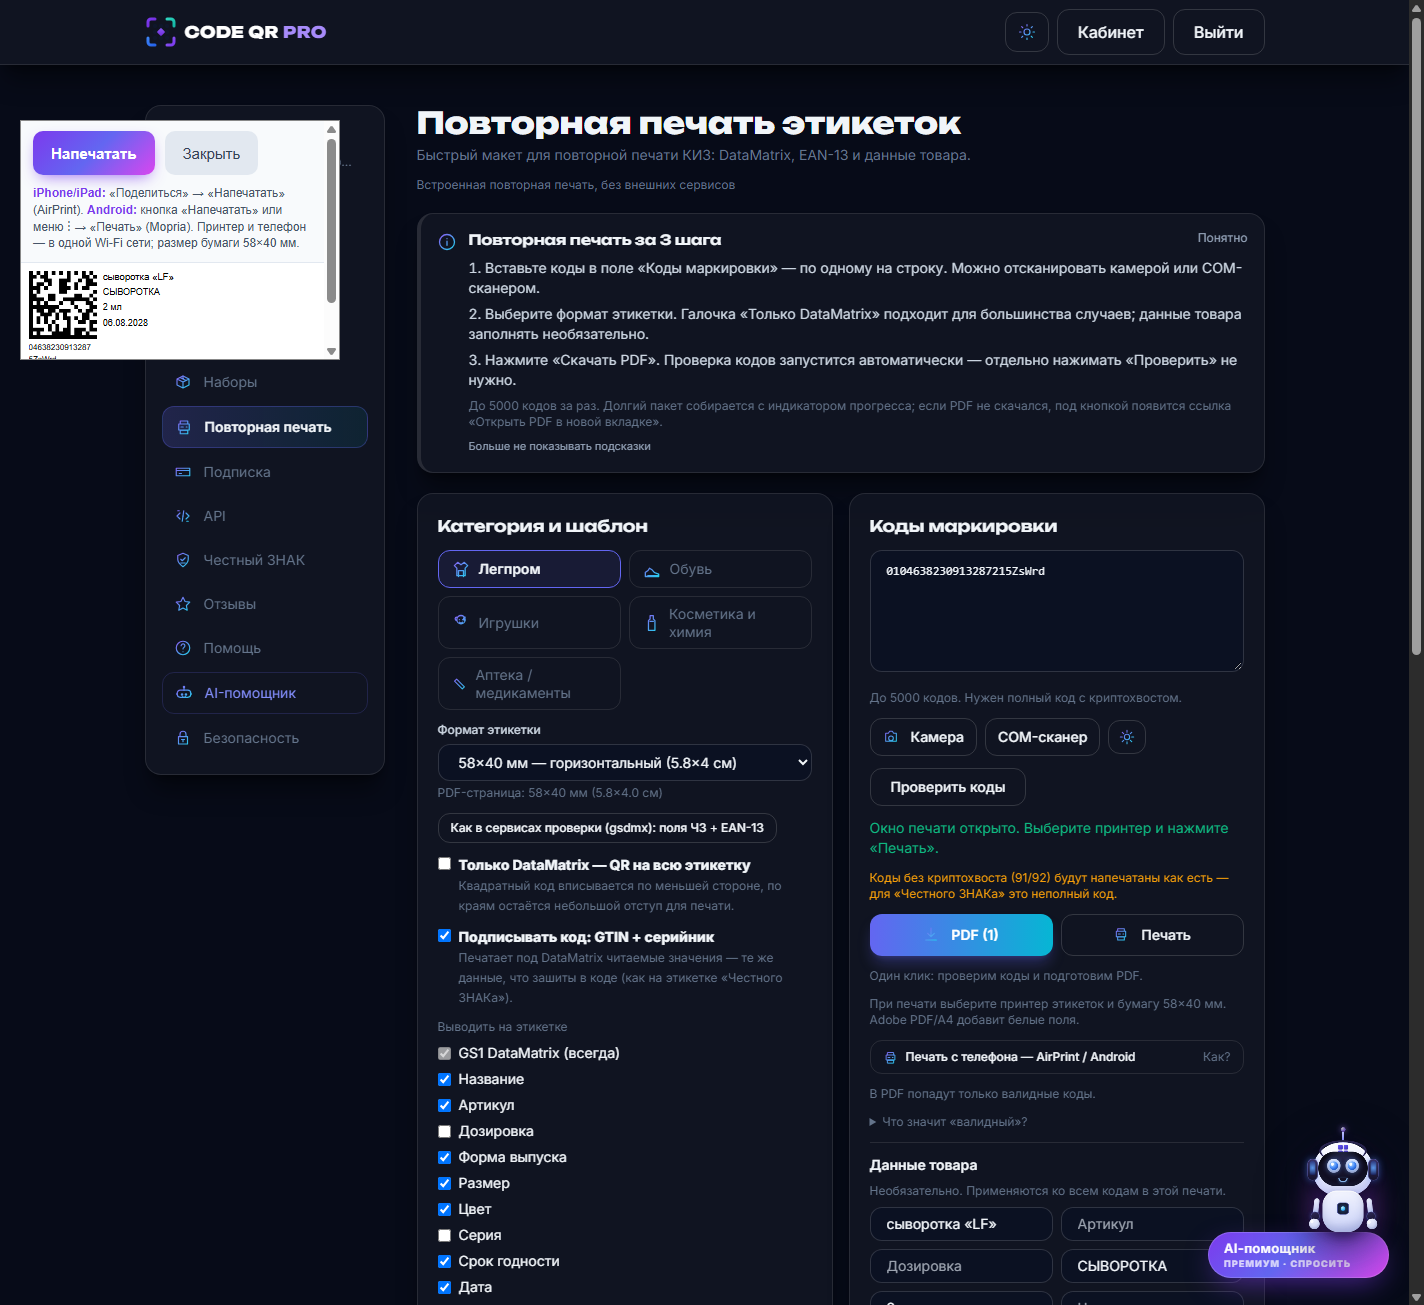
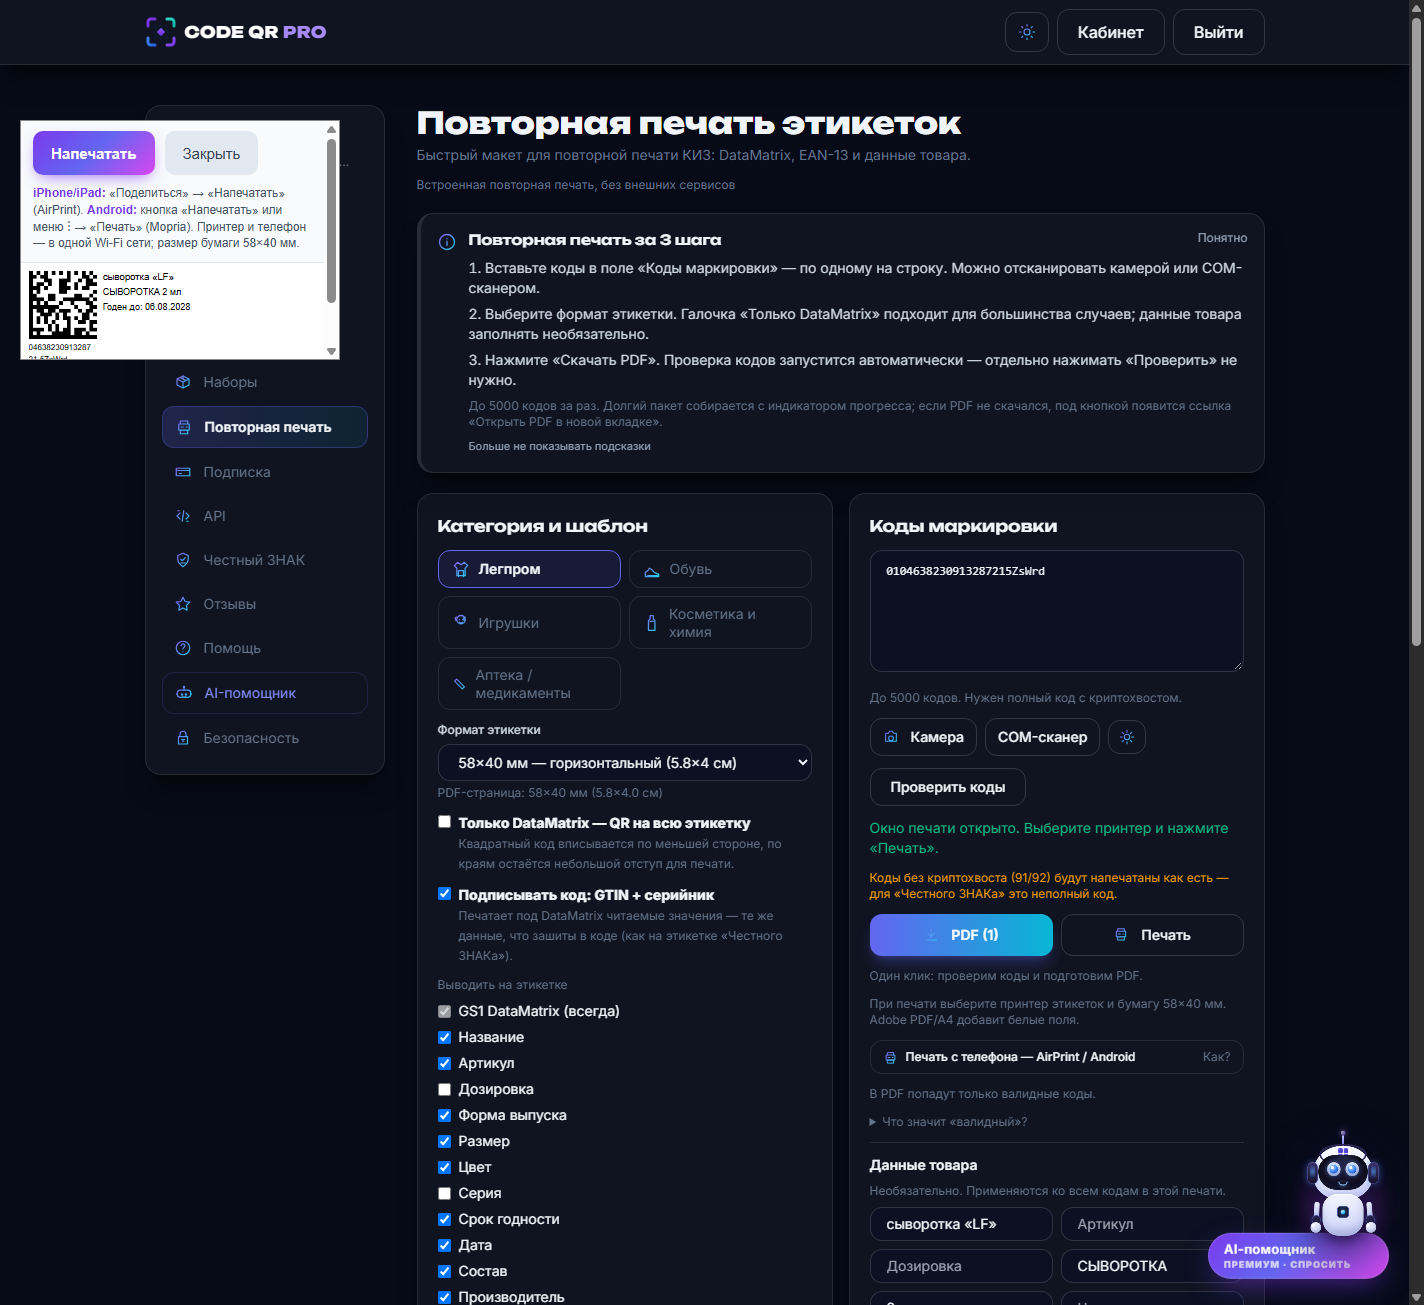
Reprint: gsdmx-like label by default, results view modes instead of preset
- Removed the «Как в сервисах проверки (gsdmx)» preset button/function
- Results block renamed «Результаты проверки» and got view modes like gsdmx:
  «Основная» (8 columns) / «Все поля» (12) / «Компактная» (4)
- Full label layout is now the default (DataMatrix + fields, no extra toggles):
  DataMatrix left, right column «название / ВИД + объём / Годен до: дата»,
  under the code «GTIN» and «21 серийник», EAN-13 at the bottom
- Product volume is taken with its unit (2 мл) from the ЧЗ catalog (attr_value_type)
- Serial caption now printed with AI prefix «21 » like on ЧЗ labels
- Verified: print template elements [datamatrix, name, kindQty, expiryLine, gtin,
  serialAi, ean13], view modes 8/12/4 columns, auto-filled fields, 0 JS errors

diff --git a/web/src/pages/Reprint.vue b/web/src/pages/Reprint.vue
@@ -61,7 +61,7 @@ const pdfPercent = computed(() => {
 const result = ref(null);
 const pdfUrl = ref('');
 const shortWarning = ref('');
-const qrOnly = ref(true);
+const qrOnly = ref(false);
 const qrMargin = ref(0.5);
 const printCode = ref(true);
 const barcodeFormat = ref('ean13');
@@ -474,6 +474,18 @@ const firstCode = computed(() => {
     batch
   };
 });
+const viewMode = ref('main');
+const VIEW_MODES = [
+  { id: 'main', label: 'Основная' },
+  { id: 'all', label: 'Все поля' },
+  { id: 'compact', label: 'Компактная' }
+];
+const colVisible = (key) => {
+  if (viewMode.value === 'all') return true;
+  if (viewMode.value === 'compact') return ['n', 'code', 'name', 'status'].includes(key);
+  return ['n', 'code', 'status', 'name', 'productKind', 'quantity', 'expirationDate', 'gtin'].includes(key);
+};
+
 const checkRows = computed(() => {
   const valid = result.value?.valid || [];
   return valid.map((c, i) => {
@@ -800,7 +812,7 @@ function buildTemplate() {
   const caption = (elements, x, y, width, fontSize = 6.5) => {
     const lineH = 2.9;
     elements.push({ id: 'capGtin', type: 'field', field: 'gtin', x, y, w: width, h: lineH, fontSize, align: 'left' });
-    elements.push({ id: 'capSerial', type: 'field', field: 'serial', x, y: y + lineH + 0.3, w: width, h: lineH, fontSize, align: 'left' });
+    elements.push({ id: 'capSerial', type: 'field', field: 'serialAi', x, y: y + lineH + 0.3, w: width, h: lineH, fontSize, align: 'left' });
     return y + lineH * 2 + 0.9;
   };
   if (qrOnly.value) {
@@ -838,23 +850,28 @@ function buildTemplate() {
   elements.push({ id: 'dm', type: 'datamatrix', x: m, y: m, w: dm, h: dm, fontSize: 8, align: 'left' });
   const lineH = Math.max(2.8, Math.min(4.2, H * 0.09));
 
-  // Правый столбец — как на карточке проверки: название, вид товара, объём, годен до.
+  // Правый столбец — как на карточке проверки: название, «вид + объём», «Годен до: дата».
   const rightX = m + dm + Math.max(1.2, m * 0.8);
   const rightW = Math.max(0, W - rightX - m);
   let rightY = m;
-  for (const key of ['name', 'form', 'size', 'expiry']) {
-    if (!fields[key]) continue;
-    const value = String(product[key] || '').trim();
-    if (!value) continue;
+  const kindQty = [String(product.form || '').trim(), String(product.size || '').trim()].filter(Boolean).join(' ');
+  const expiryLine = String(product.expiry || '').trim() ? `Годен до: ${String(product.expiry).trim()}` : '';
+  const rightFields = [
+    { key: 'name', value: String(product.name || '').trim(), enabled: fields.name, fontSize: 7.2 },
+    { key: 'kindQty', value: kindQty, enabled: fields.form || fields.size, fontSize: 6.8 },
+    { key: 'expiryLine', value: expiryLine, enabled: fields.expiry, fontSize: 6.8 }
+  ];
+  for (const item of rightFields) {
+    if (!item.enabled || !item.value) continue;
     if (rightW < 8 || rightY + lineH > H - m) break;
     elements.push({
-      id: `right_${key}`, type: 'field', field: key, x: rightX, y: rightY, w: rightW, h: lineH,
-      fontSize: key === 'name' ? 7.2 : 6.8, align: 'left'
+      id: `right_${item.key}`, type: 'field', field: item.key, x: rightX, y: rightY, w: rightW, h: lineH,
+      fontSize: item.fontSize, align: 'left'
     });
     rightY += lineH + 0.6;
   }
 
-  // Подпись под DataMatrix: GTIN и серийник.
+  // Подпись под DataMatrix: GTIN и «21 серийник» (как на этикетке ЧЗ).
   let belowY = m + dm + 1;
   if (printCode.value) {
     belowY = caption(elements, m, belowY, Math.max(dm, W * 0.5), 6);
@@ -887,14 +904,6 @@ function buildTemplate() {
   return { name: `Повторная печать · ${f.label}`, widthMm: W, heightMm: H, dpi: 203, elements };
 }
 
-function applyGsdmxPreset() {
-  qrOnly.value = false;
-  printCode.value = true;
-  for (const key of ['name', 'form', 'size', 'expiry', 'date', 'manufacturer', 'composition']) fields[key] = true;
-  fields.ean13 = true;
-  notice.value = 'Шаблон как в сервисах проверки: название, вид, объём, даты, состав, производитель и EAN-13';
-}
-
 async function downloadPdf() {
   error.value = '';
   notice.value = '';
@@ -922,10 +931,15 @@ async function downloadPdf() {
     }
     const template = buildTemplate();
     if (!template.elements.length) { error.value = 'Нечего печатать'; return; }
+    const kindQtyValue = [String(product.form || '').trim(), String(product.size || '').trim()].filter(Boolean).join(' ');
+    const expiryLineValue = String(product.expiry || '').trim() ? `Годен до: ${String(product.expiry).trim()}` : '';
     const rows = result.value.valid.map((c) => ({
       code: c.code,
       gtin: c.gtin,
       serial: c.serial,
+      serialAi: c.serial ? `21 ${c.serial}` : '',
+      kindQty: kindQtyValue,
+      expiryLine: expiryLineValue,
       barcode: String(product.barcode || '').trim(),
       name: String(product.name || '').trim(),
       article: String(product.article || '').trim(),
@@ -1075,8 +1089,13 @@ async function printLabels() {
     }
     const template = buildTemplate();
     if (!template.elements.length) throw new Error('Нечего печатать');
+    const kindQtyValue = [String(product.form || '').trim(), String(product.size || '').trim()].filter(Boolean).join(' ');
+    const expiryLineValue = String(product.expiry || '').trim() ? `Годен до: ${String(product.expiry).trim()}` : '';
     const rows = result.value.valid.map((c) => ({
       code: c.code, gtin: c.gtin, serial: c.serial,
+      serialAi: c.serial ? `21 ${c.serial}` : '',
+      kindQty: kindQtyValue,
+      expiryLine: expiryLineValue,
       barcode: String(product.barcode || '').trim(), name: String(product.name || '').trim(),
       article: String(product.article || '').trim(), dosage: String(product.dosage || '').trim(),
       form: String(product.form || '').trim(), size: String(product.size || '').trim(),
@@ -1134,9 +1153,6 @@ async function printLabels() {
             </select>
             <p class="text-xs text-slate-500 mt-1">PDF-страница: {{ currentFormat.w }}×{{ currentFormat.h }} мм ({{ (currentFormat.w / 10).toFixed(1) }}×{{ (currentFormat.h / 10).toFixed(1) }} см)</p>
           </div>
-          <button type="button" class="btn-ghost !py-1.5 !px-3 text-xs self-start" @click="applyGsdmxPreset">
-            Как в сервисах проверки (gsdmx): поля ЧЗ + EAN-13
-          </button>
           <label class="flex items-start gap-2 text-sm mt-1">
             <input v-model="qrOnly" type="checkbox" class="mt-0.5">
             <span><b>Только DataMatrix — QR на всю этикетку</b><br><span class="text-xs text-slate-500">Квадратный код вписывается по меньшей стороне, по краям остаётся небольшой отступ для печати.</span></span>
@@ -1318,7 +1334,7 @@ async function printLabels() {
 
       <div v-if="result && productInfo.length" class="glass rounded-2xl p-5 mt-4">
         <div class="flex flex-wrap items-center justify-between gap-2 mb-2">
-          <h2 class="font-display font-semibold">Информация о кодах</h2>
+          <h2 class="font-display font-semibold">Результаты проверки</h2>
           <div class="flex items-center gap-2">
             <span v-if="infoLoading" class="text-xs text-slate-500">Запрашиваем ЧЗ…</span>
             <label class="btn-ghost !py-1 !px-2 text-xs cursor-pointer">
@@ -1339,29 +1355,39 @@ async function printLabels() {
           </div>
           <div>Наименование и производитель подтягиваются из «Честного ЗНАКа», если в настройках подключён токен ЧЗ; иначе видны GTIN и серийник из кода.</div>
         </div>
+        <div class="flex flex-wrap gap-1.5 mb-2">
+          <button
+            v-for="m in VIEW_MODES" :key="m.id" type="button"
+            class="px-3 py-1.5 rounded-lg text-xs border transition"
+            :class="viewMode === m.id
+              ? 'bg-brand-500/15 border-brand-500/40 text-brand-400 font-semibold'
+              : 'border-slate-200 dark:border-white/10 text-slate-500 hover:bg-slate-100 dark:hover:bg-white/5'"
+            @click="viewMode = m.id"
+          >{{ m.label }}</button>
+        </div>
         <div class="overflow-auto max-h-64">
-          <table class="w-full text-xs min-w-[1080px]">
+          <table class="w-full text-xs min-w-[720px]">
             <thead>
               <tr class="text-left text-slate-500 border-b border-slate-200 dark:border-white/10">
-                <th class="py-1.5 pr-2">№</th>
-                <th class="py-1.5 pr-3">Код маркировки</th>
-                <th class="py-1.5 pr-3">Статус кода</th>
-                <th class="py-1.5 pr-3">Название</th>
-                <th class="py-1.5 pr-3">Вид товара</th>
-                <th class="py-1.5 pr-3">Объём / вес / количество</th>
-                <th class="py-1.5 pr-3">Дата изготовления</th>
-                <th class="py-1.5 pr-3">Годен до</th>
-                <th class="py-1.5 pr-3">Срок использования</th>
-                <th class="py-1.5 pr-3">Код найден</th>
-                <th class="py-1.5 pr-3">Криптозащита КМ</th>
-                <th class="py-1.5">GTIN</th>
+                <th v-if="colVisible('n')" class="py-1.5 pr-2">№</th>
+                <th v-if="colVisible('code')" class="py-1.5 pr-3">Код маркировки</th>
+                <th v-if="colVisible('status')" class="py-1.5 pr-3">Статус кода</th>
+                <th v-if="colVisible('name')" class="py-1.5 pr-3">Название</th>
+                <th v-if="colVisible('productKind')" class="py-1.5 pr-3">Вид товара</th>
+                <th v-if="colVisible('quantity')" class="py-1.5 pr-3">Объём / вес / количество</th>
+                <th v-if="colVisible('productionDate')" class="py-1.5 pr-3">Дата изготовления</th>
+                <th v-if="colVisible('expirationDate')" class="py-1.5 pr-3">Годен до</th>
+                <th v-if="colVisible('serviceLife')" class="py-1.5 pr-3">Срок использования</th>
+                <th v-if="colVisible('found')" class="py-1.5 pr-3">Код найден</th>
+                <th v-if="colVisible('crypto')" class="py-1.5 pr-3">Криптозащита КМ</th>
+                <th v-if="colVisible('gtin')" class="py-1.5">GTIN</th>
               </tr>
             </thead>
             <tbody>
               <tr v-for="(p, i) in checkRows.slice(0, 300)" :key="i" class="border-b border-slate-100 dark:border-white/5">
-                <td class="py-1.5 pr-2 text-slate-500">{{ p.n }}</td>
-                <td class="py-1.5 pr-3 font-mono max-w-[220px] truncate" :title="p.code">{{ p.code }}</td>
-                <td class="py-1.5 pr-3">
+                <td v-if="colVisible('n')" class="py-1.5 pr-2 text-slate-500">{{ p.n }}</td>
+                <td v-if="colVisible('code')" class="py-1.5 pr-3 font-mono max-w-[220px] truncate" :title="p.code">{{ p.code }}</td>
+                <td v-if="colVisible('status')" class="py-1.5 pr-3">
                   <span
                     v-if="p.status"
                     class="chip-soon !text-[10px] !py-0"
@@ -1369,15 +1395,15 @@ async function printLabels() {
                   >{{ p.status }}</span>
                   <span v-else class="text-slate-400">—</span>
                 </td>
-                <td class="py-1.5 pr-3">{{ p.name || '—' }}</td>
-                <td class="py-1.5 pr-3">{{ p.productKind || '—' }}</td>
-                <td class="py-1.5 pr-3">{{ p.quantity || '—' }}</td>
-                <td class="py-1.5 pr-3">{{ p.productionDate || '—' }}</td>
-                <td class="py-1.5 pr-3">{{ p.expirationDate || '—' }}</td>
-                <td class="py-1.5 pr-3">{{ p.serviceLife || '—' }}</td>
-                <td class="py-1.5 pr-3" :class="p.found === 'Да' ? 'text-emerald-500' : 'text-slate-400'">{{ p.found }}</td>
-                <td class="py-1.5 pr-3" :class="p.crypto === 'Проверено' ? 'text-emerald-500' : (p.crypto === 'Не проверено' ? 'text-amber-500' : 'text-slate-400')">{{ p.crypto }}</td>
-                <td class="py-1.5 font-mono">{{ p.gtin }}</td>
+                <td v-if="colVisible('name')" class="py-1.5 pr-3">{{ p.name || '—' }}</td>
+                <td v-if="colVisible('productKind')" class="py-1.5 pr-3">{{ p.productKind || '—' }}</td>
+                <td v-if="colVisible('quantity')" class="py-1.5 pr-3">{{ p.quantity || '—' }}</td>
+                <td v-if="colVisible('productionDate')" class="py-1.5 pr-3">{{ p.productionDate || '—' }}</td>
+                <td v-if="colVisible('expirationDate')" class="py-1.5 pr-3">{{ p.expirationDate || '—' }}</td>
+                <td v-if="colVisible('serviceLife')" class="py-1.5 pr-3">{{ p.serviceLife || '—' }}</td>
+                <td v-if="colVisible('found')" class="py-1.5 pr-3" :class="p.found === 'Да' ? 'text-emerald-500' : 'text-slate-400'">{{ p.found }}</td>
+                <td v-if="colVisible('crypto')" class="py-1.5 pr-3" :class="p.crypto === 'Проверено' ? 'text-emerald-500' : (p.crypto === 'Не проверено' ? 'text-amber-500' : 'text-slate-400')">{{ p.crypto }}</td>
+                <td v-if="colVisible('gtin')" class="py-1.5 font-mono">{{ p.gtin }}</td>
               </tr>
             </tbody>
           </table>

diff --git a/web/src/lib/cz-public.js b/web/src/lib/cz-public.js
@@ -186,6 +186,14 @@ export async function fetchCatalogCard(gtin) {
   const catalog = Array.isArray(raw.catalogData) ? raw.catalogData[0] : {};
   const attrs = Array.isArray(catalog.good_attrs) ? catalog.good_attrs : [];
   const attr = (name) => String((attrs.find((a) => a.attr_name === name) || {}).attr_value || '');
+  const attrWithUnit = (name) => {
+    const found = attrs.find((a) => a.attr_name === name) || {};
+    const value = String(found.attr_value || '');
+    const unit = String(found.attr_value_type || '').trim();
+    if (!value) return '';
+    if (!unit || unit === '1') return value;
+    return value.includes(unit) ? value : `${value} ${unit}`;
+  };
   const card = {
     found: true,
     catalogOnly: true,
@@ -194,8 +202,8 @@ export async function fetchCatalogCard(gtin) {
     brand: catalog.brand_name || attr('Товарный знак'),
     category: attr('Вид товара'),
     productKind: attr('Вид товара'),
-    quantity: attr('Номинальное количество'),
-    size: attr('Номинальное количество'),
+    quantity: attrWithUnit('Номинальное количество'),
+    size: attrWithUnit('Номинальное количество'),
     producer: catalog.producer_name || '',
     producerInn: catalog.producer_inn || '',
     structure: attr('Состав товара'),
